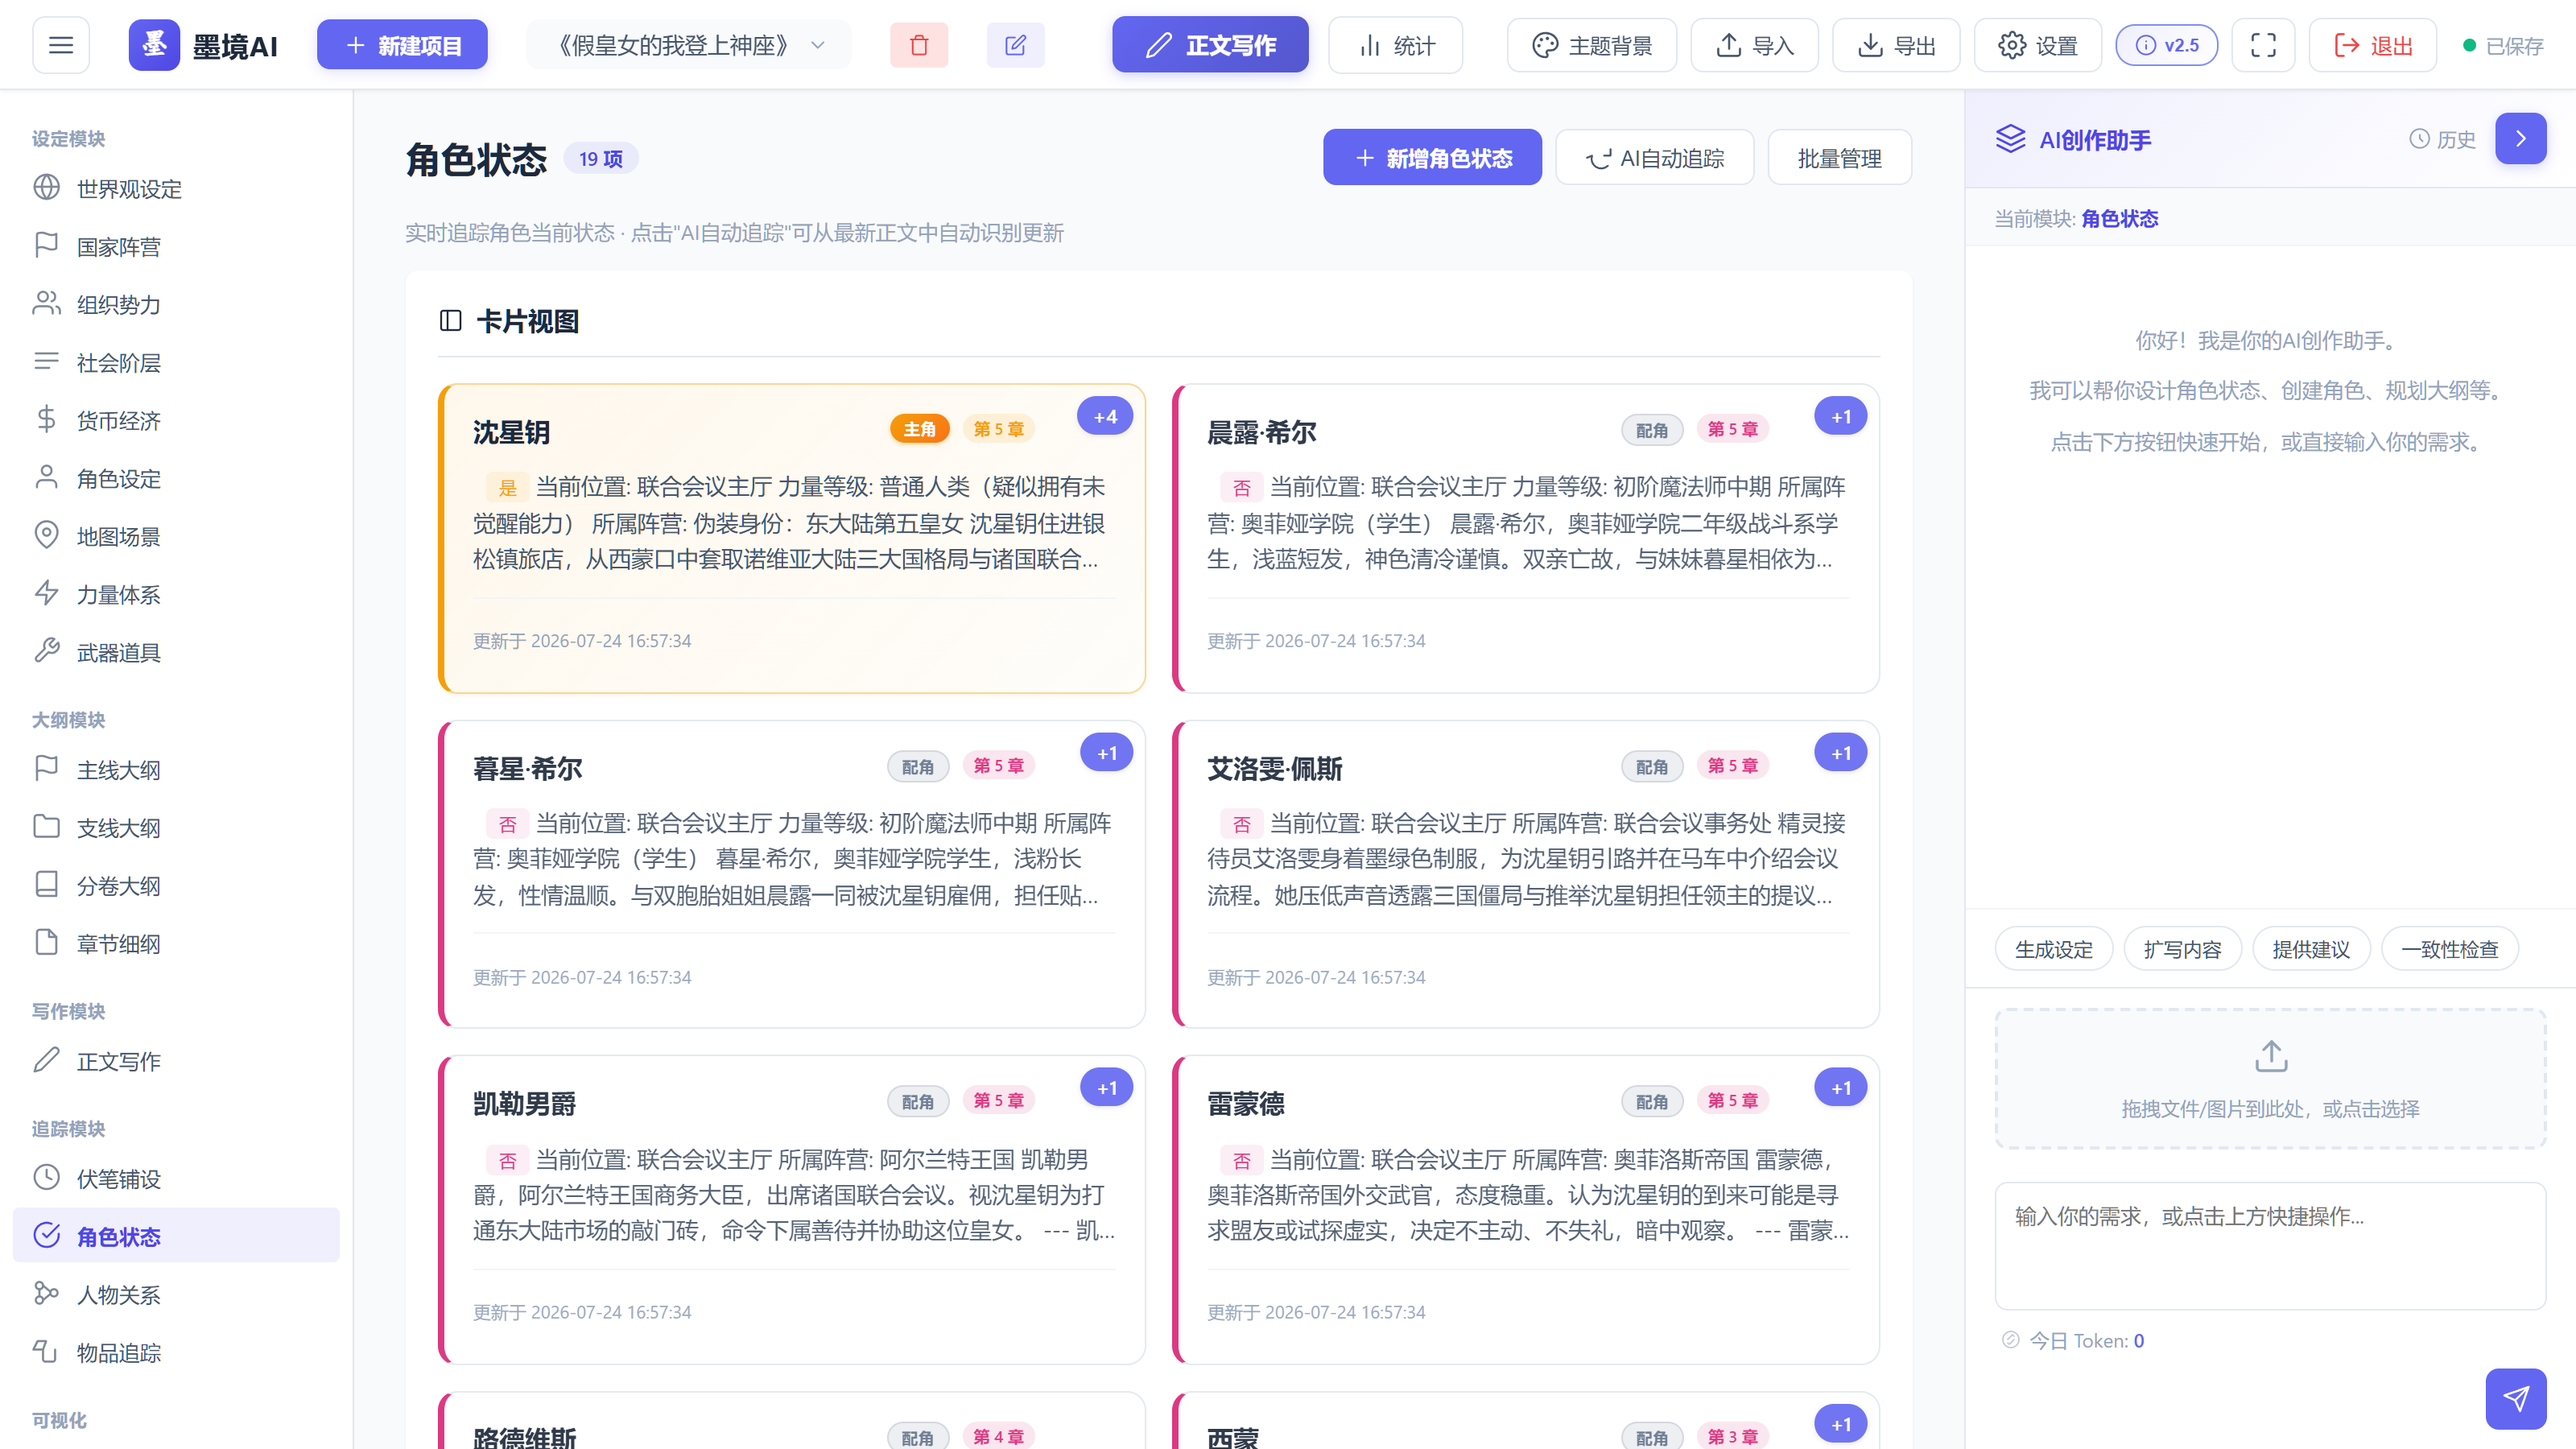
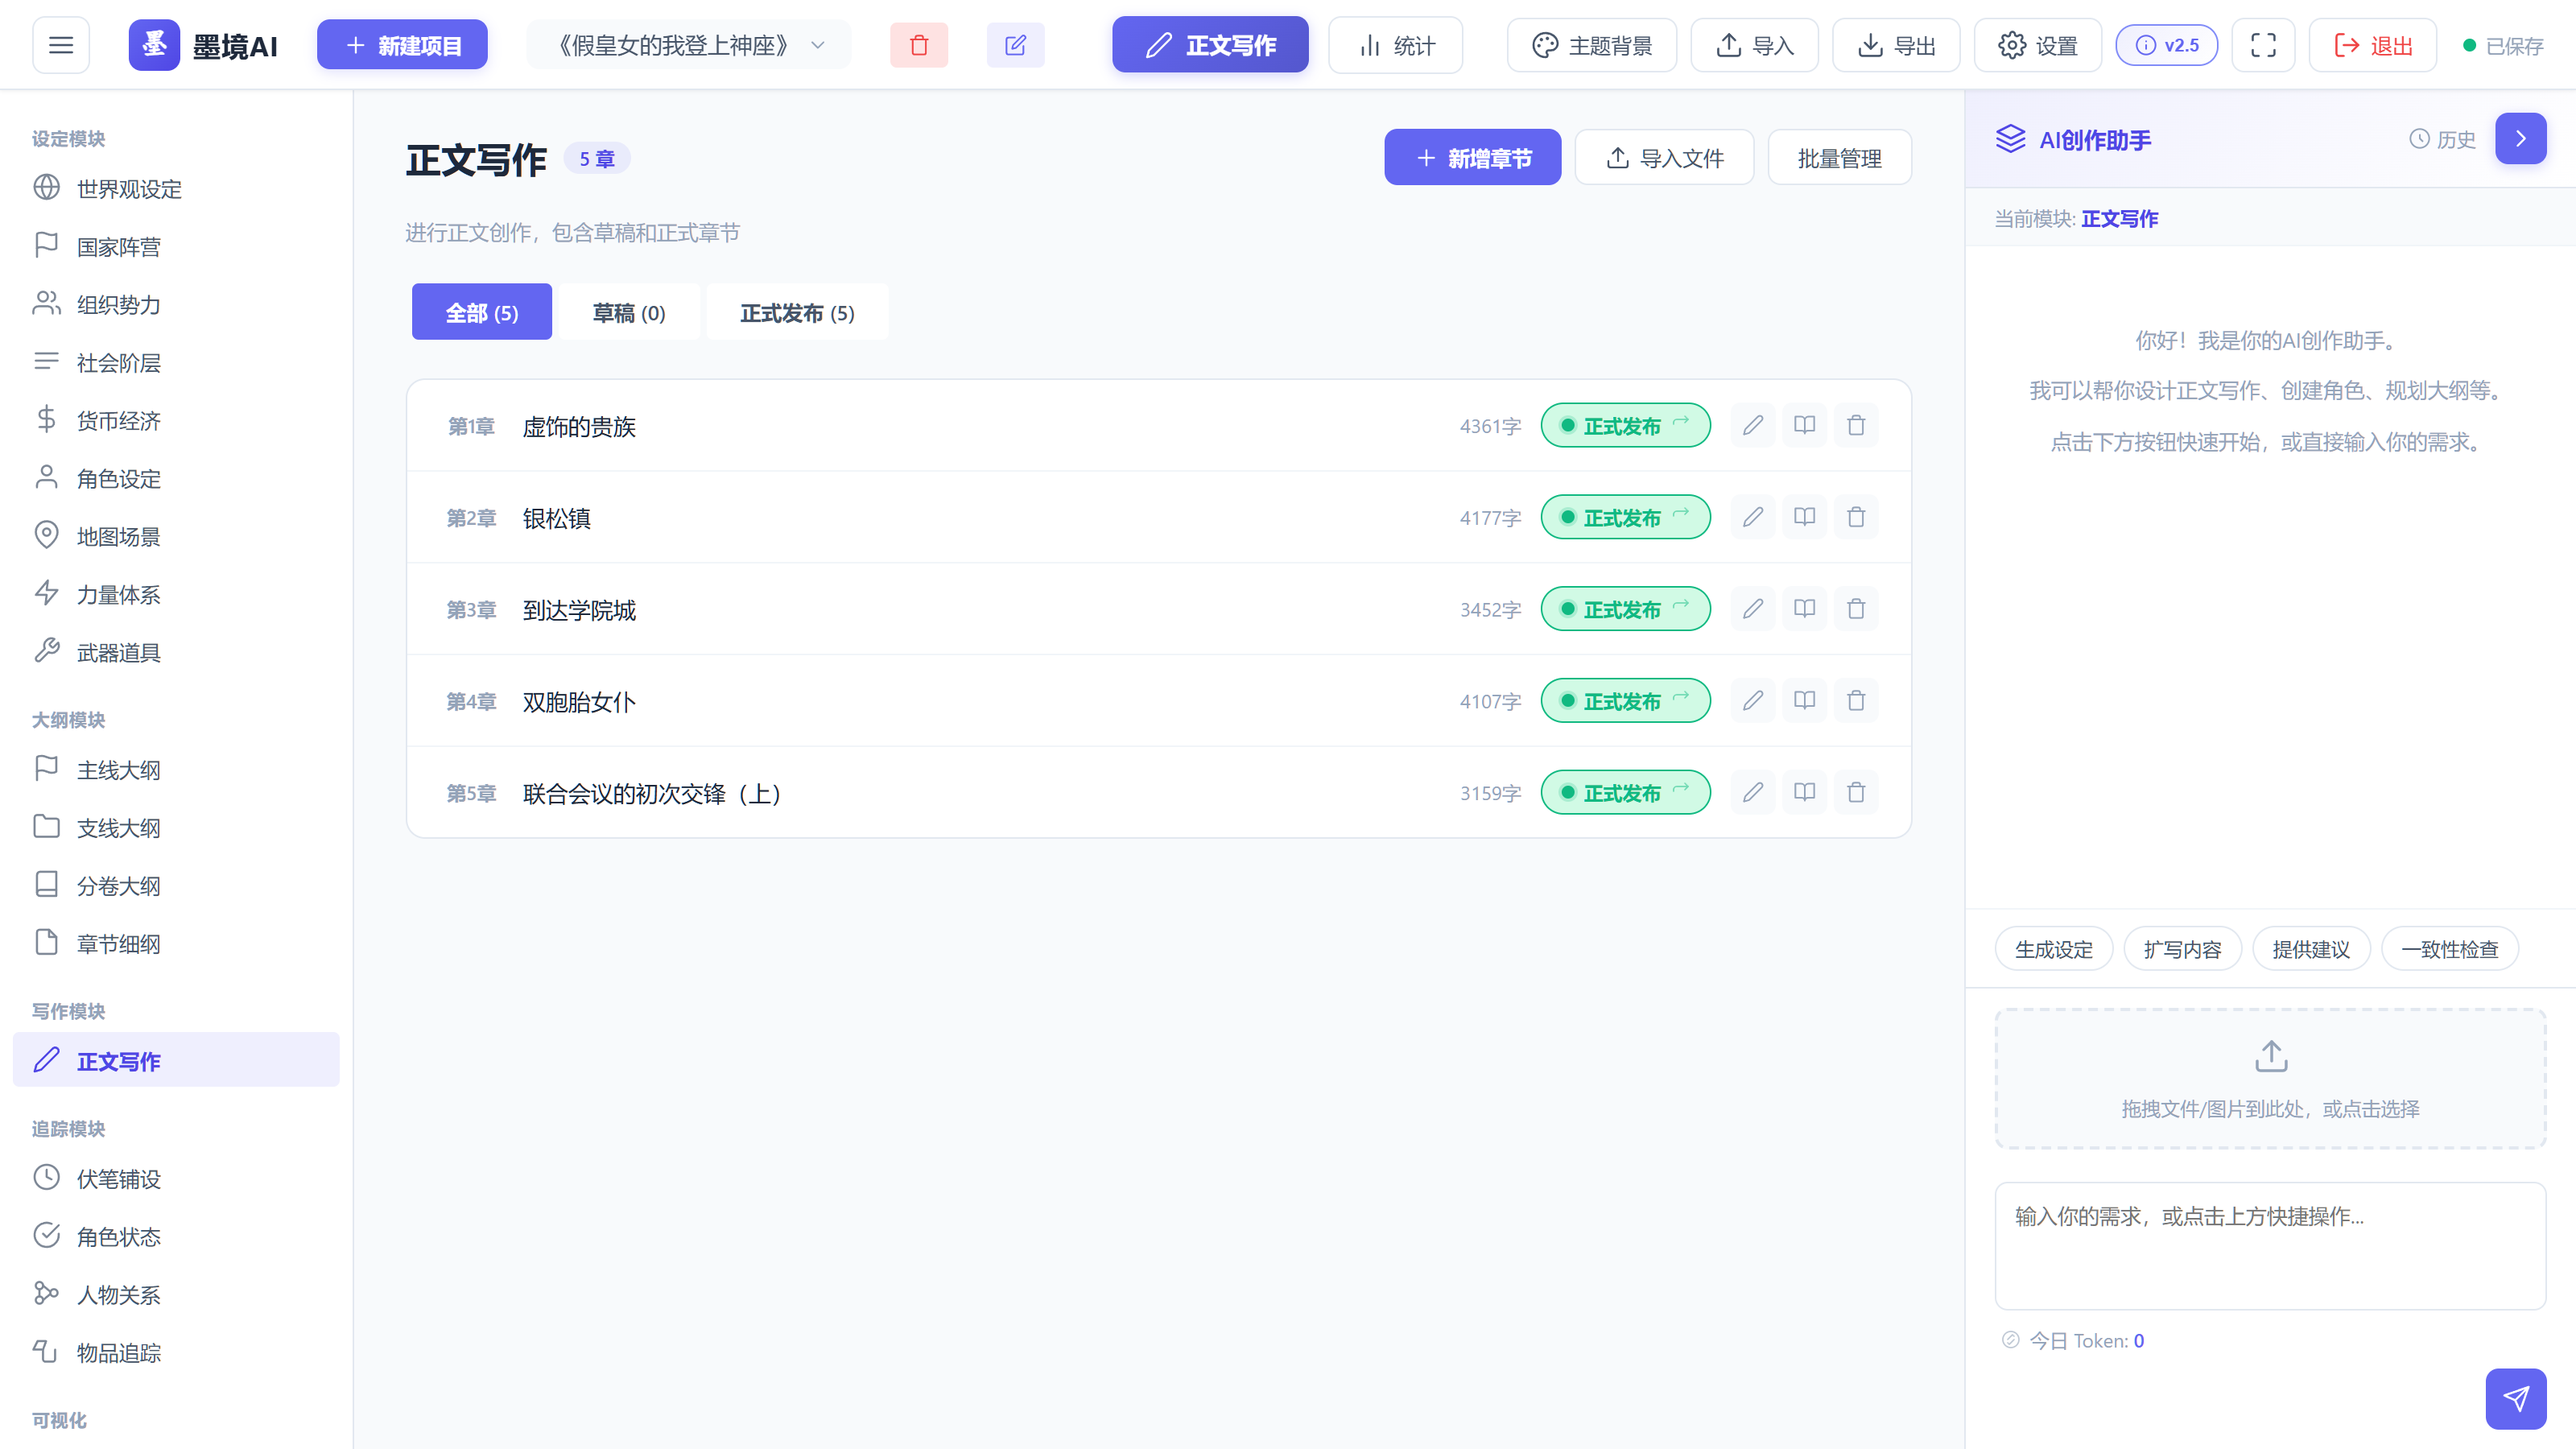
主界面卡改展示正文写作模块（避免与角色追踪卡重复）；下载卡标注内置演示数据与最新包体积

diff --git a/index.html b/index.html
@@ -418,10 +418,11 @@
                         <svg stroke-linejoin="round" stroke-linecap="round" width="48" height="48" viewBox="0 0 24 24" fill="none" stroke="currentColor" stroke-width="1.75"><path d="M21 15v4a2 2 0 0 1-2 2H5a2 2 0 0 1-2-2v-4"/><polyline points="7 10 12 15 17 10"/><line x1="12" y1="15" x2="12" y2="3"/></svg>
                     </div>
                     <h3>Windows 便携版</h3>
-                    <p class="download-version">v2.5 · 约 53.2 MB</p>
+                    <p class="download-version">v2.5 · 约 53.5 MB</p>
                     <ul class="download-features">
                         <li>✓ 无需安装 Python 环境</li>
                         <li>✓ 双击即可运行</li>
+                        <li>✓ 已内置演示项目数据，开箱即用</li>
                         <li>✓ 包含完整源代码</li>
                         <li>✓ 数据本地存储，安全私密</li>
                     </ul>
